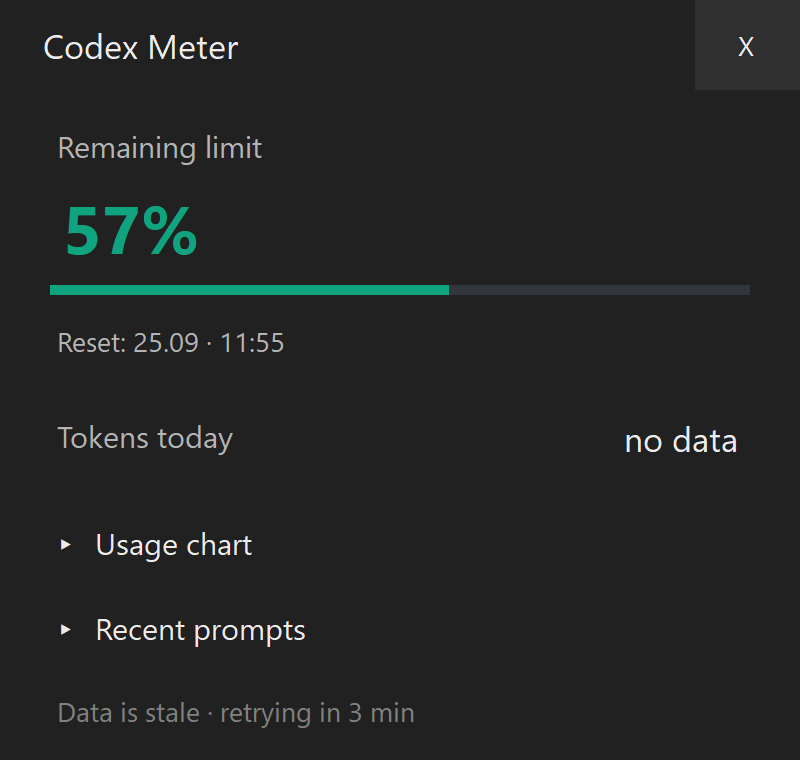
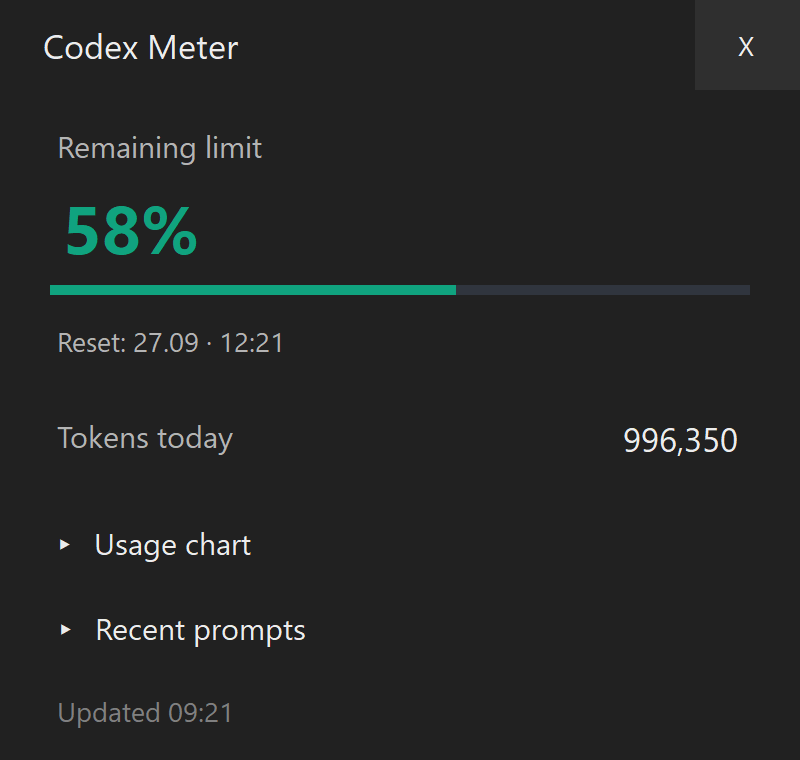
Release Codex Meter 1.0.8 with refined tray UI

diff --git a/src/Meter/Program.cs b/src/Meter/Program.cs
@@ -84,7 +84,8 @@ static class Program
             CultureInfo.DefaultThreadCurrentCulture = english;
             CultureInfo.DefaultThreadCurrentUICulture = english;
             Directory.CreateDirectory(Path.GetDirectoryName(Path.GetFullPath(output))!);
-            using var form = new MeterForm();
+            using var form = new MeterForm(test: true);
+            form.PrepareStoreScreenshotPreview();
             form.Show();
             var deadline = DateTime.UtcNow.AddSeconds(5);
             while (DateTime.UtcNow < deadline)
@@ -173,6 +174,7 @@ partial class MeterForm : Form
     [DllImport("user32.dll", CharSet = CharSet.Unicode)] static extern int RegisterWindowMessage(string message);
     static readonly int TaskbarButtonCreatedMessage = RegisterWindowMessage("TaskbarButtonCreated");
     readonly NotifyIcon tray;
+    internal ContextMenuStrip TrayMenu => tray.ContextMenuStrip!;
     readonly Panel body = new() { AutoScroll = false, Anchor = AnchorStyles.Top | AnchorStyles.Bottom | AnchorStyles.Left | AnchorStyles.Right };
     readonly Panel titleBar = new() { Dock = DockStyle.Top };
     readonly ToolTip tips = new() { AutoPopDelay = 15000 };
@@ -184,7 +186,7 @@ partial class MeterForm : Form
     readonly string dataDir = Path.Combine(
         Environment.GetFolderPath(Environment.SpecialFolder.LocalApplicationData),
         "CodexMeter", "data");
-    bool busy, quitting, keepOnTaskbar = true;
+    bool busy, quitting, keepOnTaskbar = true, showCompletionCardsAutomatically = true;
     bool chartOpen, promptHistoryOpen, localBusy;
     int chartMode = 0, chartTokenMode = 0;
     string chartConversationFilter = "";
@@ -218,17 +220,24 @@ partial class MeterForm : Form
         PositionPanel();
         BuildTitleBar();
         Controls.Add(body); body.BringToFront(); titleBar.BringToFront();
-        var menu = new ContextMenuStrip();
-        menu.Items.Add(L.Pick("Pokaż zużycie", "Show usage"), null, (_, _) => Reveal());
-        menu.Items.Add(L.Pick("Odśwież", "Refresh"), null, async (_, _) => { await RefreshData(); await RefreshLocal(); });
-        var xBehavior = new ToolStripMenuItem(L.Pick("Przycisk X", "X button"));
-        var minimizeWithX = new ToolStripMenuItem(L.Pick("Minimalizuj do paska zadań", "Minimize to taskbar")) { Checked = keepOnTaskbar };
-        var closeWithX = new ToolStripMenuItem(L.Pick("Ukryj z paska zadań — zostaw w zasobniku", "Hide from taskbar — keep in notification area")) { Checked = !keepOnTaskbar };
+        var menu = DarkMenuRenderer.CreateMenu();
+        static string UncheckedLabel(string label) => "    " + label;
+        menu.Items.Add(UncheckedLabel(L.Pick("Pokaż zużycie", "Show usage")), null, (_, _) => Reveal());
+        menu.Items.Add(UncheckedLabel(L.Pick("Odśwież", "Refresh")), null, async (_, _) => { await RefreshData(); await RefreshLocal(); });
+        var xBehavior = new ToolStripMenuItem(UncheckedLabel(L.Pick("Przycisk X", "X button")));
+        var minimizeWithX = new ToolStripMenuItem();
+        var closeWithX = new ToolStripMenuItem();
+        static string CheckedLabel(bool selected, string label) => (selected ? "✓  " : "    ") + label;
+        void UpdateXLabels()
+        {
+            minimizeWithX.Text = CheckedLabel(keepOnTaskbar, L.Pick("Minimalizuj do paska zadań", "Minimize to taskbar"));
+            closeWithX.Text = CheckedLabel(!keepOnTaskbar, L.Pick("Ukryj w zasobniku", "Hide in notification area"));
+        }
+        UpdateXLabels();
         void SetXBehavior(bool keep)
         {
             keepOnTaskbar = keep;
-            minimizeWithX.Checked = keep;
-            closeWithX.Checked = !keep;
+            UpdateXLabels();
             SaveSettings();
         }
         minimizeWithX.Click += (_, _) => SetXBehavior(true);
@@ -236,8 +245,41 @@ partial class MeterForm : Form
         xBehavior.DropDownItems.Add(minimizeWithX);
         xBehavior.DropDownItems.Add(closeWithX);
         menu.Items.Add(xBehavior);
+        var automaticCards = new ToolStripMenuItem();
+        void UpdateAutomaticCardsLabel() => automaticCards.Text = CheckedLabel(showCompletionCardsAutomatically,
+            L.Pick("Pokazuj karty wynikowe automatycznie", "Show completion cards automatically"));
+        UpdateAutomaticCardsLabel();
+        automaticCards.Click += (_, _) =>
+        {
+            showCompletionCardsAutomatically = !showCompletionCardsAutomatically;
+            UpdateAutomaticCardsLabel();
+            SaveSettings();
+        };
+        menu.Items.Add(automaticCards);
         menu.Items.Add(new ToolStripSeparator());
-        menu.Items.Add(L.Pick("Zakończ", "Exit"), null, (_, _) => { quitting = true; Close(); });
+        menu.Items.Add(UncheckedLabel(L.Pick("Zakończ", "Exit")), null, (_, _) => { quitting = true; Close(); });
+        void StyleMenu(ToolStripDropDownMenu styledMenu)
+        {
+            styledMenu.BackColor = UiTheme.MenuSurface;
+            styledMenu.ForeColor = MainText;
+            styledMenu.ShowImageMargin = false;
+            styledMenu.ShowCheckMargin = false;
+            styledMenu.Font = UiTheme.Font(8.5f);
+            styledMenu.Renderer = new DarkMenuRenderer();
+            int rowWidth = Math.Max(S(180), styledMenu.Items.OfType<ToolStripMenuItem>()
+                .Max(item => TextRenderer.MeasureText(item.Text, styledMenu.Font).Width) + S(21));
+            foreach (ToolStripItem item in styledMenu.Items)
+            {
+                if (item is ToolStripSeparator separator)
+                {
+                    separator.AutoSize = false;
+                    separator.Size = new Size(rowWidth, S(7));
+                }
+                else DarkMenuRenderer.StyleRow(item, rowWidth, S(UiMetrics.SelectionRowHeight));
+            }
+        }
+        StyleMenu(menu);
+        StyleMenu((ToolStripDropDownMenu)xBehavior.DropDown);
         tray = new NotifyIcon { Icon = Icon, Text = L.Pick("Codex Meter — odczytywanie zużycia", "Codex Meter — reading usage"), Visible = true, ContextMenuStrip = menu };
         tray.MouseClick += (_, e) => { if (e.Button == MouseButtons.Left) RevealFromTray(); };
         FormClosed += (_, _) =>
@@ -285,6 +327,35 @@ partial class MeterForm : Form
             }
         }
     };
+    internal void PrepareStoreScreenshotPreview()
+    {
+        var now = DateTimeOffset.Now;
+        current = new JsonObject
+        {
+            ["fetchedAt"] = now.ToString("O", CultureInfo.InvariantCulture),
+            ["limits"] = new JsonObject
+            {
+                ["rateLimits"] = new JsonObject
+                {
+                    ["primary"] = new JsonObject
+                    {
+                        ["usedPercent"] = 42.0,
+                        ["resetsAt"] = now.AddHours(3).ToUnixTimeSeconds()
+                    }
+                }
+            }
+        };
+        local = new LocalUsage(
+            new List<TokenSample>
+            {
+                new("store-preview-1", now.AddMinutes(-52), 482_150, InputTokens: 467_900, OutputTokens: 14_250),
+                new("store-preview-2", now.AddMinutes(-27), 317_420, InputTokens: 309_810, OutputTokens: 7_610),
+                new("store-preview-3", now.AddMinutes(-8), 196_780, InputTokens: 191_500, OutputTokens: 5_280)
+            },
+            new List<PromptUsage>(), 0, 0);
+        remoteError = null;
+        Render();
+    }
     void LayoutChrome()
     {
         titleBar.Height = S(36);
@@ -323,7 +394,11 @@ partial class MeterForm : Form
     void MinimizeToTaskbar()
     {
         ShowInTaskbar = true;
+        // Hide the painted panel before Windows changes its window state. Otherwise
+        // it briefly shows a partially repainted frame during the minimize animation.
+        Hide();
         WindowState = FormWindowState.Minimized;
+        Show();
         ApplyTaskbarMeter();
     }
     void HideToTray()
@@ -331,8 +406,8 @@ partial class MeterForm : Form
         // Do not preserve native scrollbars while the hidden form is being restored.
         body.AutoScroll = false;
         body.AutoScrollMinSize = Size.Empty;
-        ShowInTaskbar = false;
         Hide();
+        ShowInTaskbar = false;
     }
     void Reveal()
     {

diff --git a/src/Meter/UI/UiLayoutTests.cs b/src/Meter/UI/UiLayoutTests.cs
@@ -34,6 +34,58 @@ static class UiLayoutTests
         {
             meter.Show();
             Application.DoEvents();
+            var trayMenu = meter.TrayMenu;
+            int menuRowHeight = (int)Math.Round(UiMetrics.SelectionRowHeight * UiDpi.ScaleForScreen(Screen.FromControl(meter)));
+            if (trayMenu.Renderer is not DarkMenuRenderer || trayMenu.Items.OfType<ToolStripMenuItem>().Any(item => item.Height != menuRowHeight))
+                throw new InvalidOperationException("Tray menu styling differs from selector rows.");
+            var xItem = (ToolStripMenuItem)trayMenu.Items[2];
+            var xMenu = (ToolStripDropDownMenu)xItem.DropDown;
+            if (xMenu.Renderer is not DarkMenuRenderer || xMenu.Items.OfType<ToolStripMenuItem>().Any(item => item.Height != menuRowHeight))
+                throw new InvalidOperationException("Tray submenu styling differs from selector rows.");
+            if (xMenu.Width >= trayMenu.Width)
+                throw new InvalidOperationException("X submenu is too wide to open beside the tray menu.");
+            var area = Screen.FromControl(meter).WorkingArea;
+            trayMenu.Show(new Point(area.Left + 20, area.Top + 20));
+            Application.DoEvents();
+            using (var menuBitmap = new Bitmap(trayMenu.Width, trayMenu.Height))
+            {
+                trayMenu.DrawToBitmap(menuBitmap, new Rectangle(Point.Empty, menuBitmap.Size));
+                menuBitmap.Save(Path.Combine(directory, "tray-menu.png"));
+            }
+            xItem.ShowDropDown();
+            Application.DoEvents();
+            if (Math.Abs(xMenu.Left - trayMenu.Right) > 2)
+                throw new InvalidOperationException($"X submenu does not touch the parent menu: parent={trayMenu.Bounds}, item={xItem.Bounds}, submenu={xMenu.Bounds}.");
+            using (var submenuBitmap = new Bitmap(xMenu.Width, xMenu.Height))
+            {
+                xMenu.DrawToBitmap(submenuBitmap, new Rectangle(Point.Empty, submenuBitmap.Size));
+                submenuBitmap.Save(Path.Combine(directory, "tray-submenu.png"));
+            }
+            xMenu.Close();
+            trayMenu.Close();
+            int nearRightX = area.Right - trayMenu.Width - xMenu.Width - 20;
+            if (nearRightX >= area.Left + 20)
+            {
+                trayMenu.Show(new Point(nearRightX, area.Top + 20));
+                Application.DoEvents();
+                xItem.ShowDropDown();
+                Application.DoEvents();
+                if (Math.Abs(xMenu.Left - trayMenu.Right) > 2)
+                    throw new InvalidOperationException($"X submenu separated near the right screen edge: parent={trayMenu.Bounds}, submenu={xMenu.Bounds}.");
+                using var joined = new Bitmap(trayMenu.Width + xMenu.Width, Math.Max(trayMenu.Height, xMenu.Bottom - trayMenu.Top));
+                using (var rootImage = new Bitmap(trayMenu.Width, trayMenu.Height))
+                using (var childImage = new Bitmap(xMenu.Width, xMenu.Height))
+                using (var graphics = Graphics.FromImage(joined))
+                {
+                    trayMenu.DrawToBitmap(rootImage, new Rectangle(Point.Empty, rootImage.Size));
+                    xMenu.DrawToBitmap(childImage, new Rectangle(Point.Empty, childImage.Size));
+                    graphics.DrawImageUnscaled(rootImage, 0, 0);
+                    graphics.DrawImageUnscaled(childImage, xMenu.Left - trayMenu.Left, xMenu.Top - trayMenu.Top);
+                }
+                joined.Save(Path.Combine(directory, "tray-menu-with-submenu.png"));
+                xMenu.Close();
+                trayMenu.Close();
+            }
             meter.ApplyDpiForTest(144);
             Application.DoEvents();
             int expectedWidth = (int)Math.Round(320 * 1.5);

diff --git a/src/Meter/UI/MeterForm.Tests.cs b/src/Meter/UI/MeterForm.Tests.cs
@@ -39,11 +39,22 @@ partial class MeterForm
             throw new InvalidOperationException("Kliknięcie ikony zasobnika przesunęło przypięty panel.");
         if (!chartOpen && !promptHistoryOpen && (body.HorizontalScroll.Visible || body.VerticalScroll.Visible))
             throw new InvalidOperationException("Zwarty panel bez rozwiniętej treści pokazuje suwaki przewijania.");
+        var closeButton = titleBar.Controls.OfType<Button>().Single(button => button.Text == "X");
+        bool previousCloseBehavior = keepOnTaskbar;
+        keepOnTaskbar = true;
+        closeButton.PerformClick();
+        Application.DoEvents();
+        keepOnTaskbar = previousCloseBehavior;
+        if (!Visible || !ShowInTaskbar || WindowState != FormWindowState.Minimized)
+            throw new InvalidOperationException("Przycisk X nie zminimalizował panelu bez usunięcia przycisku z paska zadań.");
+        RevealFromTray();
+        Application.DoEvents();
+        if (!Visible || WindowState != FormWindowState.Normal || Bounds.Location != pinnedBounds.Location)
+            throw new InvalidOperationException("Panel nie wrócił poprawnie po zamknięciu przyciskiem X.");
         File.WriteAllText(Path.Combine(AppContext.BaseDirectory, "taskbar-test.txt"),
             taskbarMeterResult.Contains("progress-cleared=0x00000000, overlay-cleared=0x00000000")
                 ? "PASS: taskbar integration"
                 : $"FAIL: {taskbarMeterResult}; TaskbarButtonCreated={taskbarButtonCreated}");
-        var closeButton = titleBar.Controls.OfType<Button>().Single(button => button.Text == "X");
         if (closeButton.FlatAppearance.MouseOverBackColor == closeButton.BackColor)
             throw new InvalidOperationException("Przycisk X nie ma widocznego stanu hover.");
         VerifyChartRanges();

diff --git a/src/Meter/UI/DarkMenuRenderer.cs b/src/Meter/UI/DarkMenuRenderer.cs
@@ -9,6 +9,24 @@ namespace CodexMeter;
 sealed class DarkMenuRenderer : ToolStripProfessionalRenderer
 {
     public static readonly Color HoverColor = UiTheme.Hover;
+    public static ContextMenuStrip CreateMenu() => new()
+    {
+        BackColor = UiTheme.MenuSurface,
+        ForeColor = UiTheme.MainText,
+        ShowImageMargin = false,
+        ShowCheckMargin = false,
+        Font = UiTheme.Font(8.5f),
+        Renderer = new DarkMenuRenderer()
+    };
+
+    public static void StyleRow(ToolStripItem item, int width, int height)
+    {
+        item.AutoSize = false;
+        item.Size = new Size(width, height);
+        item.Padding = new Padding(5, 0, 5, 0);
+        item.TextAlign = ContentAlignment.MiddleLeft;
+    }
+
     protected override void OnRenderMenuItemBackground(ToolStripItemRenderEventArgs e)
     {
         bool hovered = e.Item.Selected || e.Item.BackColor == HoverColor;
@@ -24,6 +42,15 @@ sealed class DarkMenuRenderer : ToolStripProfessionalRenderer
     {
         using var pen = new Pen(UiTheme.Separator);
         e.Graphics.DrawLine(pen, 6, e.Item.Height / 2, e.Item.Width - 6, e.Item.Height / 2);
+    }
+    protected override void OnRenderArrow(ToolStripArrowRenderEventArgs e)
+    {
+        e.ArrowColor = UiTheme.MainText;
+        var state = e.Graphics.Save();
+        // Leave a little breathing room between submenu arrows and the menu edge.
+        e.Graphics.TranslateTransform(-Math.Max(1, (e.Item?.Height ?? UiMetrics.SelectionRowHeight) / 8f), 0);
+        base.OnRenderArrow(e);
+        e.Graphics.Restore(state);
     }
     protected override void OnRenderItemText(ToolStripItemTextRenderEventArgs e)
     {

diff --git a/src/Meter/UI/MeterForm.Settings.cs b/src/Meter/UI/MeterForm.Settings.cs
@@ -13,16 +13,25 @@ partial class MeterForm
         try
         {
             string path = Path.Combine(dataDir, "settings.json");
-            if (File.Exists(path)) keepOnTaskbar = JsonNode.Parse(File.ReadAllText(path))?["keepOnTaskbar"]?.GetValue<bool>() ?? true;
+            if (File.Exists(path))
+            {
+                var settings = JsonNode.Parse(File.ReadAllText(path));
+                keepOnTaskbar = settings?["keepOnTaskbar"]?.GetValue<bool>() ?? true;
+                showCompletionCardsAutomatically = settings?["showCompletionCardsAutomatically"]?.GetValue<bool>() ?? true;
+            }
         }
-        catch (Exception ex) { Diagnostics.Report("Load settings", ex); keepOnTaskbar = true; }
+        catch (Exception ex) { Diagnostics.Report("Load settings", ex); keepOnTaskbar = true; showCompletionCardsAutomatically = true; }
     }
     void SaveSettings()
     {
         try
         {
             Directory.CreateDirectory(dataDir);
-            File.WriteAllText(Path.Combine(dataDir, "settings.json"), new JsonObject { ["keepOnTaskbar"] = keepOnTaskbar }.ToJsonString());
+            File.WriteAllText(Path.Combine(dataDir, "settings.json"), new JsonObject
+            {
+                ["keepOnTaskbar"] = keepOnTaskbar,
+                ["showCompletionCardsAutomatically"] = showCompletionCardsAutomatically
+            }.ToJsonString());
         }
         catch (Exception ex) { Diagnostics.Report("Save settings", ex); }
     }

diff --git a/src/Meter/UI/SelectionMenuFactory.cs b/src/Meter/UI/SelectionMenuFactory.cs
@@ -32,7 +32,7 @@ sealed class SelectionMenuFactory
         select.Click += (_, _) =>
         {
             if (suppressNextOpen) { suppressNextOpen = false; return; }
-            var menu = new ContextMenuStrip { BackColor = Raised, ForeColor = MainText, ShowImageMargin = false, Font = UiTheme.Font(8.5f), Renderer = new DarkMenuRenderer() };
+            var menu = DarkMenuRenderer.CreateMenu();
             activeSelectMenu = menu;
             menu.Closing += (_, _) =>
             {
@@ -58,10 +58,8 @@ sealed class SelectionMenuFactory
                     int index = i; var item = menu.Items.Add((i == selected ? "✓  " : "    ") + choices[i]);
                     // Keep ordinary dropdown entries at the same 30-logical-pixel
                     // row height as searchable conversation rows.
-                    item.AutoSize = false;
-                    item.Size = new Size(S(width), S(UiMetrics.SelectionRowHeight));
+                    DarkMenuRenderer.StyleRow(item, S(width), S(UiMetrics.SelectionRowHeight));
                     item.Padding = new Padding(S(5), 0, S(5), 0);
-                    item.TextAlign = ContentAlignment.MiddleLeft;
                     item.MouseEnter += (_, _) => { item.BackColor = DarkMenuRenderer.HoverColor; item.Invalidate(); };
                     item.MouseLeave += (_, _) => { item.BackColor = Color.Empty; item.Invalidate(); };
                     item.Click += (_, _) =>

diff --git a/src/Meter/UI/TrayGauge.cs b/src/Meter/UI/TrayGauge.cs
@@ -26,11 +26,12 @@ static class TrayGauge
     static Bitmap Render(int size, string value, double usedPercent)
     {
         float scale = size / 32f;
-        // Keep transparent space below the gauge so it sits slightly higher
-        // in the Windows taskbar button without clipping the ring.
-        float gaugeScale = 26f / 30f;
-        float gaugeX = 3f;
-        float gaugeY = 2.5f;
+        // The live tray gauge should fill the icon canvas. Keep the existing
+        // framing of the larger GPT logo used by Store artwork.
+        bool logo = value == "GPT";
+        float gaugeScale = logo ? 26f / 30f : 1f;
+        float gaugeX = logo ? 3f : 1f;
+        float gaugeY = logo ? 2.5f : 1f;
         float G(float coordinate) => coordinate * gaugeScale;
         var bitmap = new Bitmap(size, size, System.Drawing.Imaging.PixelFormat.Format32bppArgb);
         using (var graphics = Graphics.FromImage(bitmap))

diff --git a/src/Meter/UI/MeterForm.Refresh.cs b/src/Meter/UI/MeterForm.Refresh.cs
@@ -29,7 +29,8 @@ partial class MeterForm
             if (!IsDisposed)
             {
                 if (showBusy || completedNow.Count > 0) Render();
-                foreach (var prompt in completedNow) CompletionPopup.Display(prompt);
+                if (showCompletionCardsAutomatically)
+                    foreach (var prompt in completedNow) CompletionPopup.Display(prompt);
             }
         }
     }

diff --git a/README.md b/README.md
@@ -16,7 +16,7 @@ Interfejs dopasowuje się do języka wyświetlania Windows: po polsku na polskim
 - Pozostały i wykorzystany limit Codex wraz z czasem resetu.
 - Lokalne wykresy użycia i historia ostatnich promptów.
 - Powiadomienia o ukończeniu z liczbą tokenów wejściowych/wyjściowych, promptem, rozmową, modelem i poziomem myślenia.
-- Polski i angielski interfejs oraz opcja menu zasobnika określająca, czy `X` minimalizuje okno do paska zadań, czy ukrywa je w obszarze powiadomień.
+- Polski i angielski interfejs oraz opcje menu zasobnika określające działanie przycisku `X` i automatyczne wyświetlanie kart wynikowych.
 
 ### Wymagania
 
@@ -50,7 +50,7 @@ The interface follows the Windows display language: Polish for Polish Windows, E
 - Remaining and used Codex limit with reset time.
 - Local usage charts and recent prompt history.
 - Completion notifications with input/output token counts, prompt, conversation, model, and reasoning level.
-- Polish and English interface, plus a tray-menu option that controls whether `X` minimizes to the taskbar or hides the panel to the notification area.
+- Polish and English interface, plus tray-menu options for the `X` button behavior and automatic completion cards.
 
 ### Requirements
 
